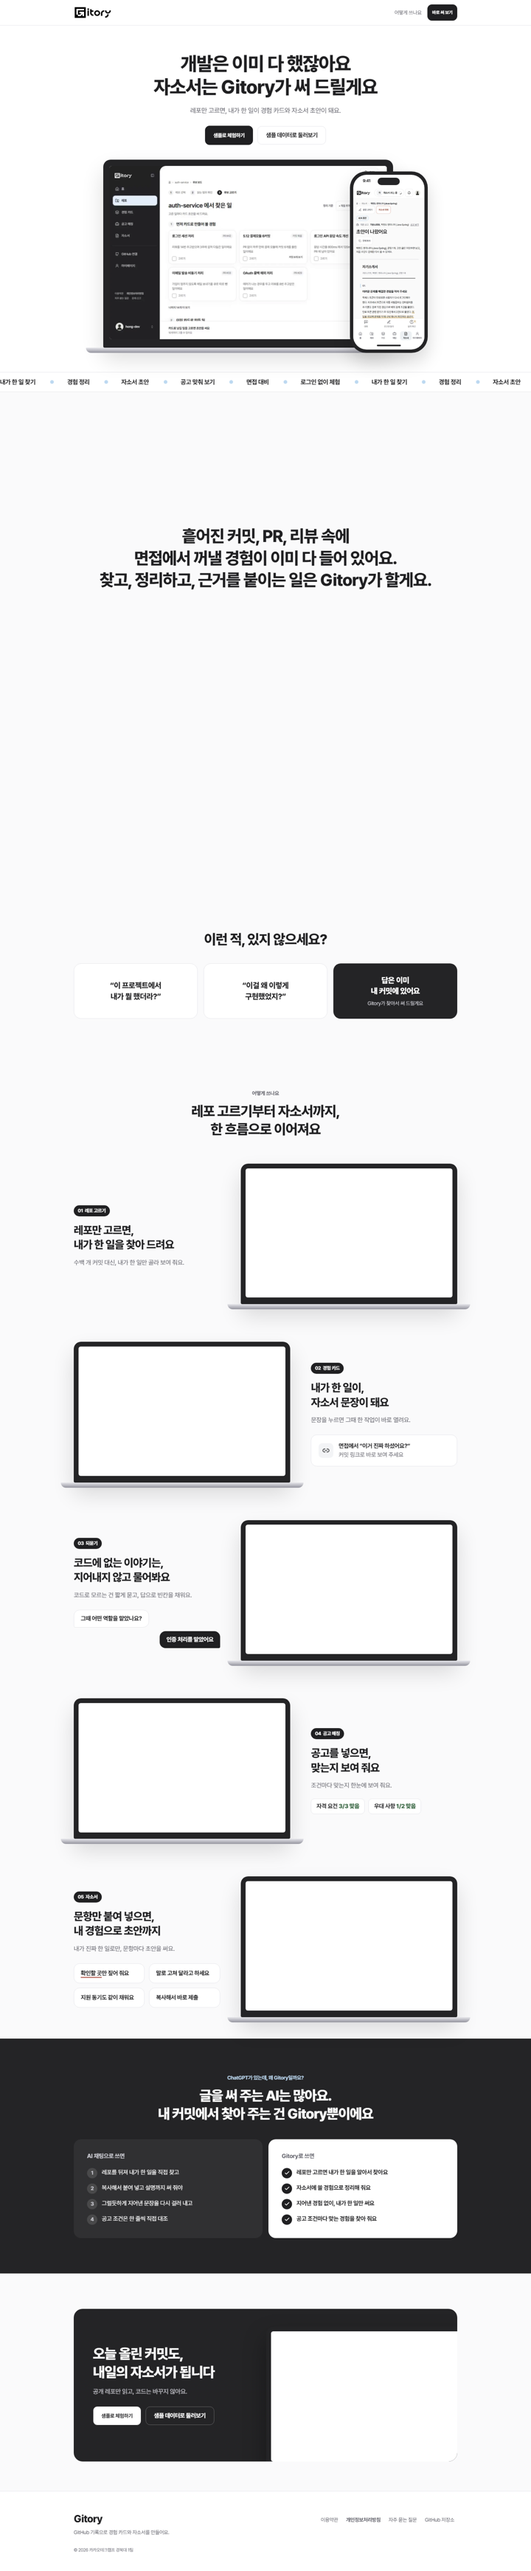
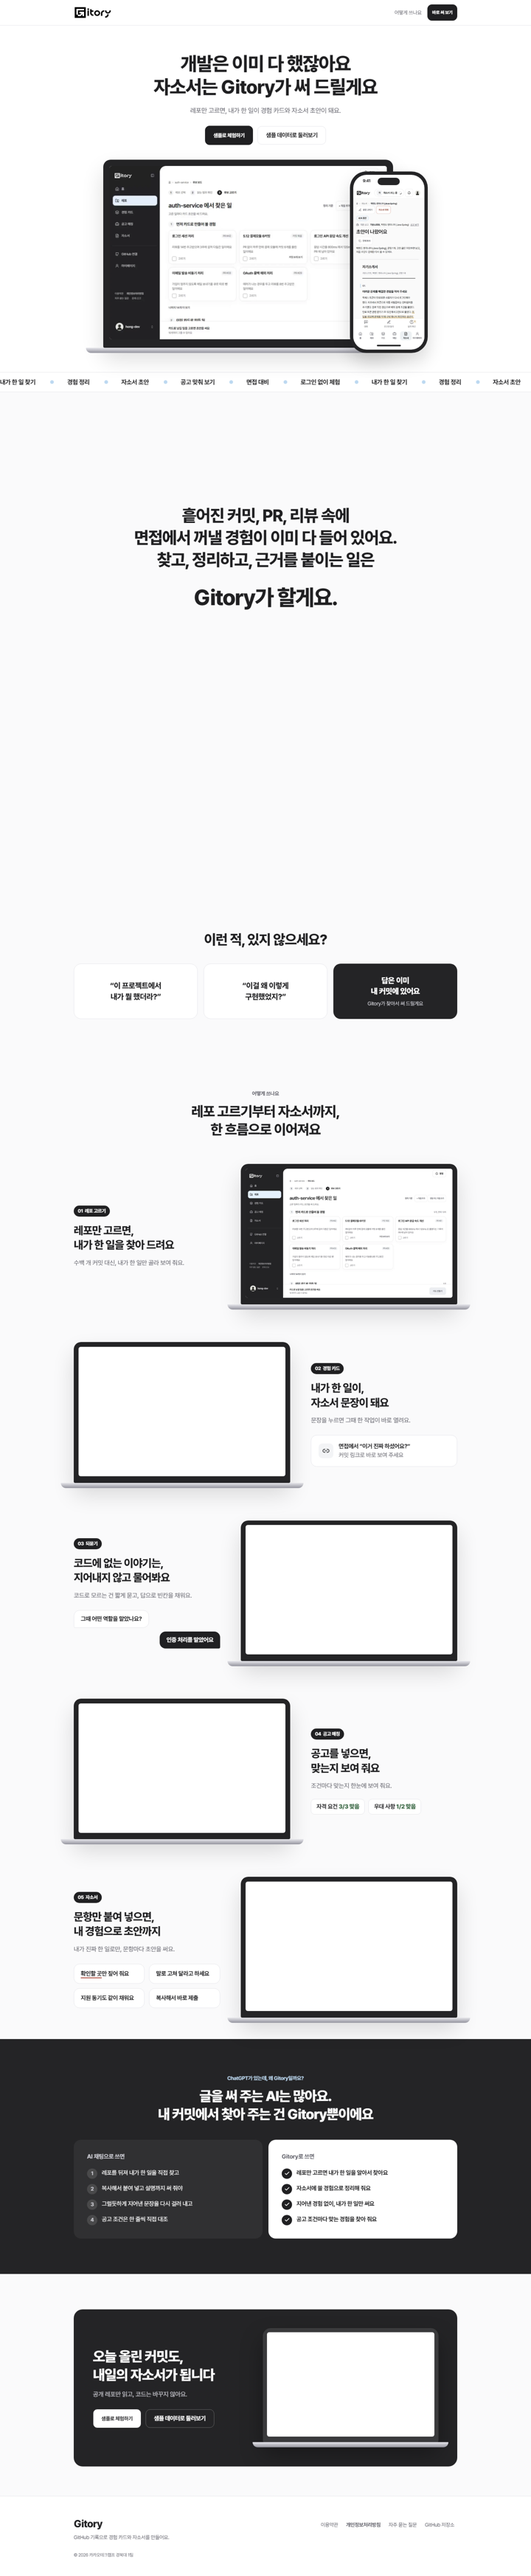
fix(frontend): 'Gitory가 할게요'를 한 줄 띄워 크게, 시작 권유의 PC 화면을 상자 안에 다 보이게
- 채워지는 문장 마지막 'Gitory가 할게요.'를 따로 한 줄로 떼고 1.3배로
- 시작 권유의 PC 화면이 오른쪽 아래로 잘리던 것을 상자 안에 온전히 넣고, 어두운 배경과 구분되게 테두리를 둠

diff --git a/frontend/src/styles/landing-scroll.css b/frontend/src/styles/landing-scroll.css
@@ -62,6 +62,7 @@
 .lp-ink__stage { position: sticky; top: 0; height: 100vh; display: flex; align-items: center; padding-inline: 20px; }
 .lp-ink__text { max-width: 1000px; margin: 0 auto; text-align: center; font-size: clamp(26px, 3.6vw, 46px); line-height: 1.3; font-weight: var(--weight-heavy); letter-spacing: -.035em; }
 .lp-ink__line { display: block; }
+.lp-ink__line--brand { margin-top: .55em; font-size: 1.3em; letter-spacing: -.04em; }
 .lp[data-motion="on"] [data-ink-part] { color: color-mix(in srgb, var(--text-primary) 20%, transparent); transition: color .35s ease-out; }
 .lp[data-motion="on"] [data-ink-part][data-inked] { color: var(--text-primary); }
 
@@ -126,9 +127,8 @@
 .lp-closing .lp-actions { justify-content: flex-start; }
 .lp-closing .lp-actions .btn { background: var(--bg-surface); color: var(--text-primary); }
 .lp-closing .lp-actions .sample-link__btn { background: transparent; color: var(--text-on-feature); border-color: color-mix(in srgb, var(--text-on-feature) 30%, transparent); }
-.lp-closing__media { flex: 1.1 1 440px; min-width: 0; align-self: flex-end; padding: 48px 0 0 8px; }
-.lp-closing__media .lp-laptop { margin-right: -14%; margin-bottom: -6%; }
-.lp-closing__media .lp-laptop__lid { box-shadow: 0 30px 60px rgba(0, 0, 0, .35); }
+.lp-closing__media { flex: 1.1 1 440px; min-width: 0; padding: clamp(32px, 4vw, 52px) clamp(32px, 4vw, 52px) clamp(32px, 4vw, 52px) 0; }
+.lp-closing__media .lp-laptop__lid { background: color-mix(in srgb, var(--text-on-feature) 10%, var(--bg-console)); box-shadow: 0 0 0 1px color-mix(in srgb, var(--text-on-feature) 14%, transparent), 0 30px 60px rgba(0, 0, 0, .35); }
 
 /* 푸터 */
 .lp-footer { border-top: 1px solid var(--border-default); background: var(--bg-surface); }

diff --git a/frontend/src/features/auth/landing/Sections.tsx b/frontend/src/features/auth/landing/Sections.tsx
@@ -20,8 +20,8 @@ export function FlowStrip() {
   );
 }
 
-/** 세 줄로 나눠 보여 주고, 줄 안의 구절이 스크롤에 맞춰 차례로 채워진다 */
-const INK = [['흩어진 커밋, PR,', '리뷰 속에'], ['면접에서 꺼낼 경험이', '이미 다 들어 있어요.'], ['찾고,', '정리하고,', '근거를 붙이는 일은', 'Gitory가', '할게요.']];
+/** 줄마다 나눠 보여 주고, 줄 안의 구절이 스크롤에 맞춰 차례로 채워진다. 마지막 줄은 한 칸 띄워 크게 */
+const INK = [['흩어진 커밋, PR,', '리뷰 속에'], ['면접에서 꺼낼 경험이', '이미 다 들어 있어요.'], ['찾고,', '정리하고,', '근거를 붙이는 일은'], ['Gitory가', '할게요.']];
 
 /** 스크롤하면 회색 글자가 한 구절씩 검게 채워지는 문장 */
 export function InkStatement() {
@@ -30,7 +30,7 @@ export function InkStatement() {
       <div className="lp-ink__stage">
         <p className="lp-ink__text">
           {INK.map((line, li) => (
-            <span key={li} className="lp-ink__line">
+            <span key={li} className={`lp-ink__line${li === INK.length - 1 ? ' lp-ink__line--brand' : ''}`}>
               {line.map((t, i) => <span key={i}>{i > 0 && ' '}<span data-ink-part="">{t}</span></span>)}
             </span>
           ))}
